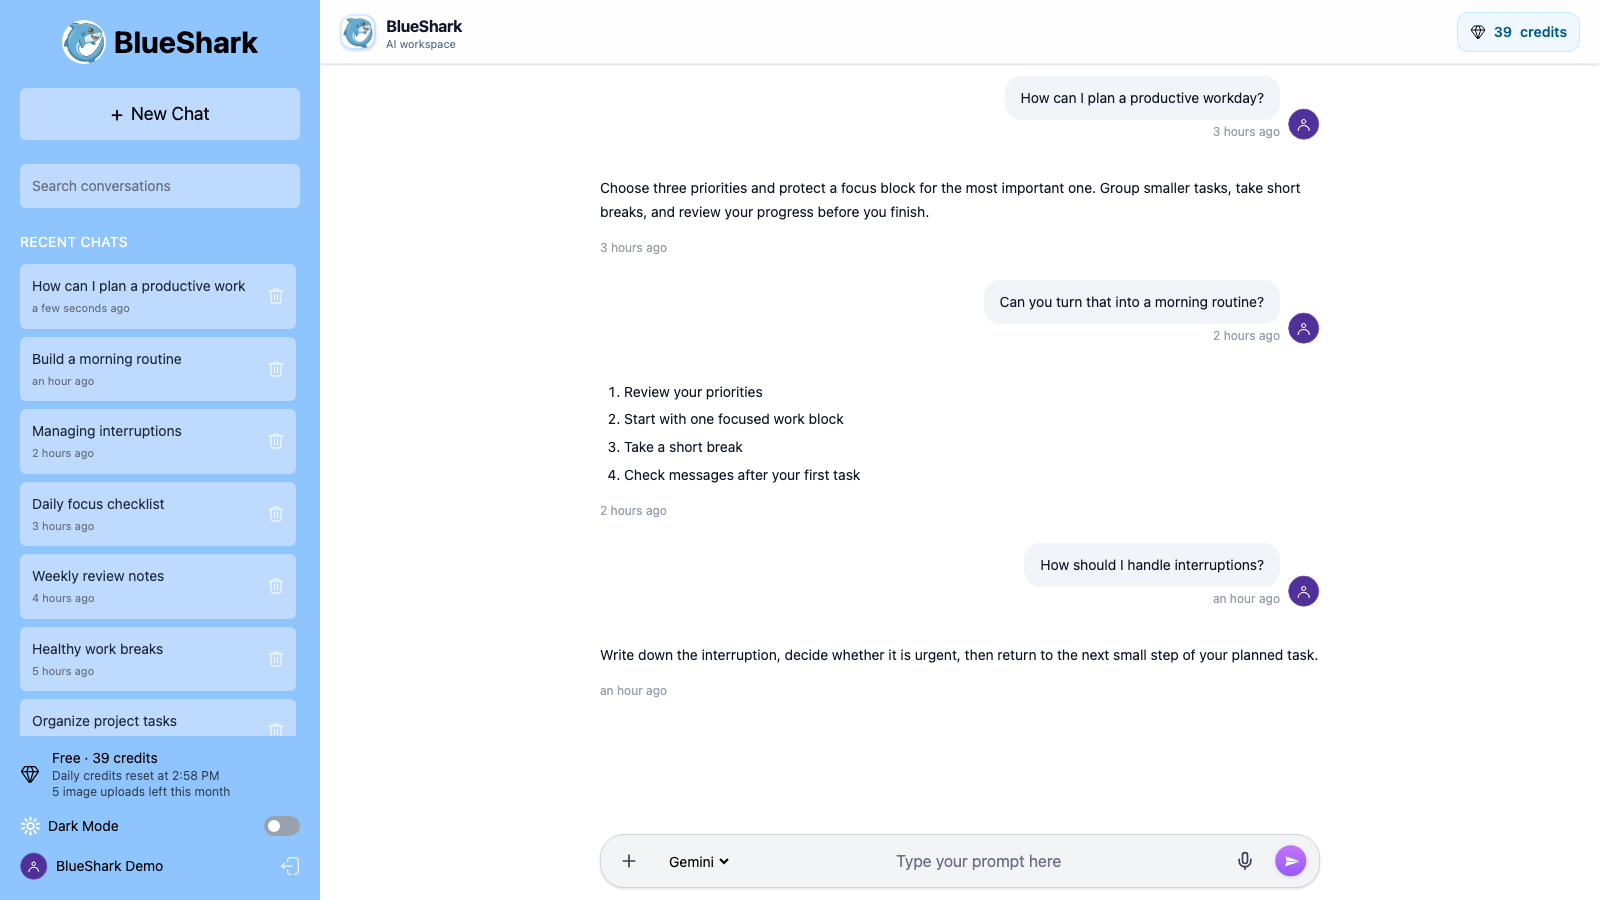
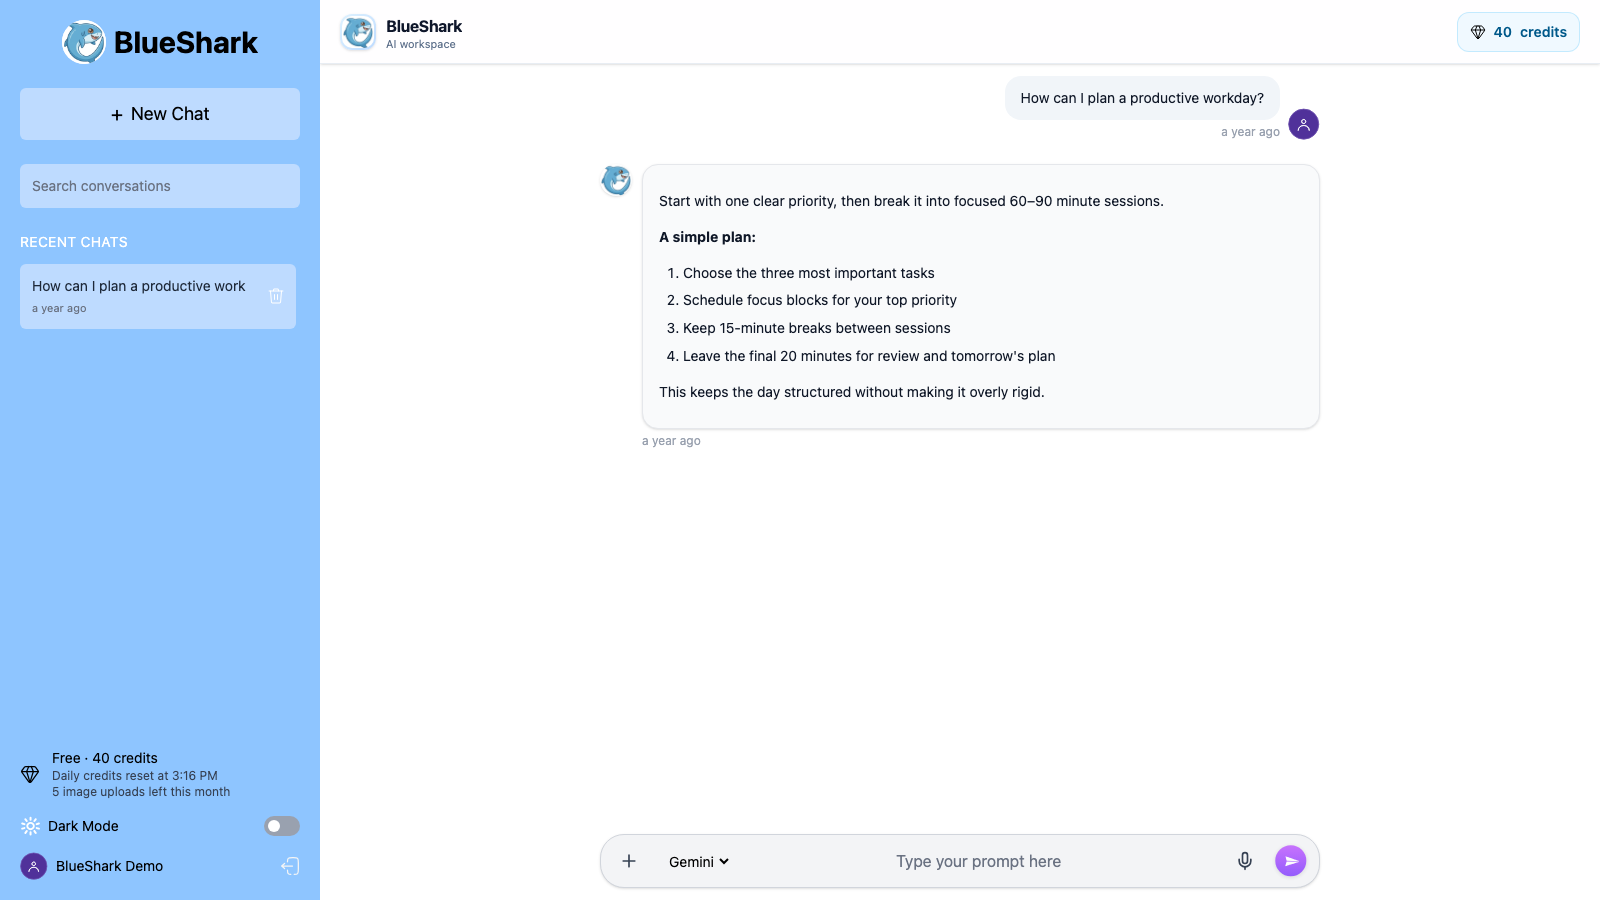
Update chat response styling and screenshot

diff --git a/frontend/src/components/Message.jsx b/frontend/src/components/Message.jsx
@@ -69,23 +69,30 @@ function Message({ message }) {
           />
         </div>
       ) : (
-        <div className="flex flex-col items-start gap-1">
-          <div
-            ref={messageRef}
-            className="markdown-body w-full max-w-full text-sm text-gray-900 dark:text-gray-100"
-          >
-            <Markdown
-              remarkPlugins={[remarkGfm]}
-              components={{ pre: MarkdownCodeBlock }}
+        <div className="flex items-start gap-2.5">
+          <img
+            src={assets.blueshark_logo}
+            alt="BlueShark"
+            className="h-8 w-8 shrink-0 rounded-full bg-white object-cover shadow-sm"
+          />
+          <div className="flex min-w-0 flex-1 flex-col items-start gap-1">
+            <div
+              ref={messageRef}
+              className="markdown-body w-full max-w-full rounded-2xl border border-gray-200 bg-gray-50 px-4 py-3 text-sm text-gray-900 shadow-sm dark:border-white/10 dark:bg-[#27272f] dark:text-gray-100"
             >
-              {message.content}
-            </Markdown>
+              <Markdown
+                remarkPlugins={[remarkGfm]}
+                components={{ pre: MarkdownCodeBlock }}
+              >
+                {message.content}
+              </Markdown>
+            </div>
+            {message.content && (
+              <span className="text-xs text-gray-400 dark:text-gray-500">
+                {moment(message.timestamp).fromNow()}
+              </span>
+            )}
           </div>
-          {message.content && (
-            <span className="text-xs text-gray-400 dark:text-gray-500">
-              {moment(message.timestamp).fromNow()}
-            </span>
-          )}
         </div>
       )}
     </article>

diff --git a/README.md b/README.md
@@ -32,7 +32,7 @@ BlueShark is a MERN-style AI chat product built with a React/Vite client and an 
 - **Credits and subscriptions:** The Free plan includes 40 chat credits that refresh every 24 hours, plus five image uploads per month. Basic, Pro, and Premium allowances are checked by the API and renew monthly through verified Stripe invoices. Stripe Checkout and Billing Portal support recurring subscriptions and cancellation; scheduling a cancellation switches the account to the Free allowance while retaining the Stripe subscription record until the paid period ends.
 - **Responsive interface:** Conversation search, a scrollable recent-chat list, a responsive top navigation bar with account credits, mobile sidebar navigation, light/dark theme, and a full-height chat layout with scrollable message history and a wide, centered prompt bar fixed at the bottom. The chat scrolls smoothly as messages arrive.
 - **Smart message input:** The roomy prompt textarea expands as you type, up to a maximum height. Enter sends a non-empty prompt; Shift+Enter inserts a new line. Sending is disabled while an AI response is generating or when both the prompt and attachments are empty.
-- **Formatted AI responses:** Assistant messages support Markdown and GitHub Flavored Markdown, including headings, lists, and tables. Prism.js highlights supported code languages. Code blocks show their language and have a Copy Code button.
+- **Formatted AI responses:** Assistant messages use BlueShark logo avatars and separate light/dark response cards that support Markdown and GitHub Flavored Markdown, including headings, lists, and tables. Prism.js highlights supported code languages. Code blocks show their language and have a Copy Code button.
 - **Development preview:** `VITE_DEMO_MODE=true` provides local sample data in Vite development mode. It is not a backend-connected or payment-enabled demo.
 
 ## Architecture and data flow
